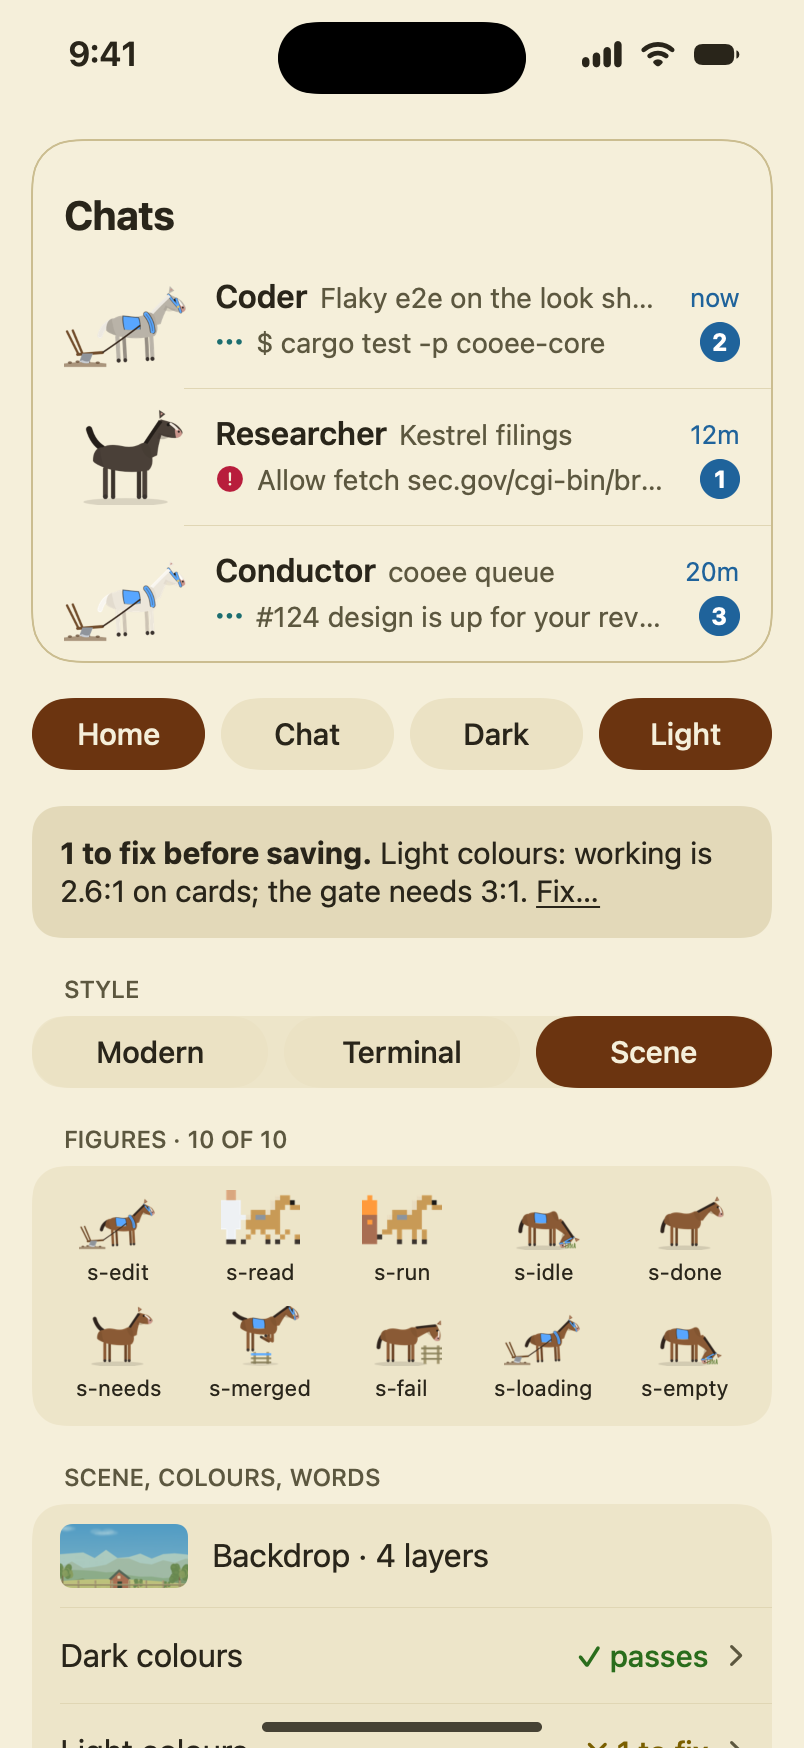
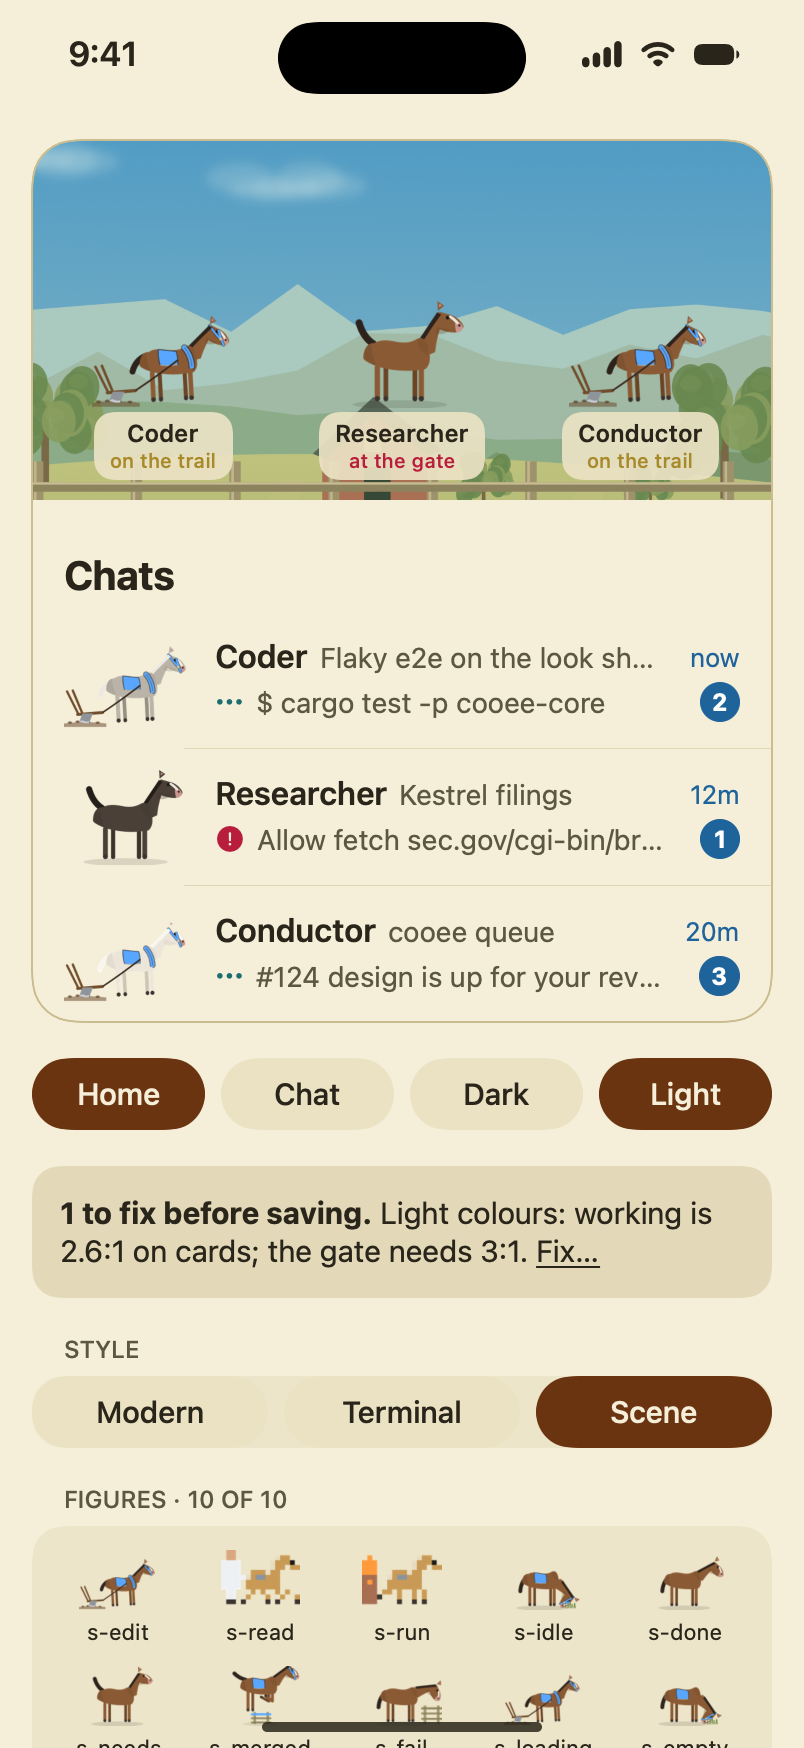
theme editor (#307): the Scene preview draws the backdrop with the figures on it for a copied Farm

diff --git a/apple/Sources/CooeeUI/ThemeEditor.swift b/apple/Sources/CooeeUI/ThemeEditor.swift
@@ -170,11 +170,10 @@ internal struct ThemePreview: View {
                 }
                 .padding(16).environment(\.asker, Fixtures.persona("res"))
             } else {
+                let chats = Array(Fixtures.chats.filter { $0.asker == nil }.prefix(3))
                 VStack(spacing: 0) {
-                    if shown.style == .scene, shown.art != nil {
-                        Sprite(name: "scene-strip", pack: "scene.svg").scaledToFill().frame(height: 120).clipped()
-                    }
-                    ChatList(chats: Array(Fixtures.chats.filter { $0.asker == nil }.prefix(3))).padding(.top, 14)
+                    if shown.style == .scene { scene(chats, shown) }
+                    ChatList(chats: chats).padding(.top, 14)
                 }
             }
         }
@@ -184,5 +183,29 @@ internal struct ThemePreview: View {
         .overlay { RoundedRectangle(cornerRadius: shown.mono ? 0 : 22).stroke(shown.palette.edge) }
         .environment(\.look, shown).environment(\.colorScheme, dark ? .dark : .light)
         .allowsHitTesting(false).accessibilityElement(children: .ignore).accessibilityLabel("Preview")
+    }
+
+    private func scene(_ chats: [ListedChat], _ shown: Look) -> some View {
+        ZStack(alignment: .bottom) {
+            Sprite(name: "scene-strip", pack: "scene.svg").scaledToFill().frame(height: 180).clipped()
+            HStack(alignment: .bottom) {
+                ForEach(chats) { chat in
+                    let pose = chat.row.state.pose
+                    VStack(spacing: 2) {
+                        Sprite(name: "horse-bay-\(pose)", pack: "sprites.svg#s-\(pose)").frame(width: 72, height: 54)
+                        VStack(spacing: 0) {
+                            Text(chat.persona.name).ui(12, .semibold, shown)
+                            Text(chat.row.state.word).ui(10, .medium, shown)
+                                .foregroundStyle(shown.palette.state(chat.row.state))
+                        }
+                        .lineLimit(1).padding(.horizontal, 8).padding(.vertical, 3)
+                        .background(shown.palette.card.opacity(0.92), in: .rect(cornerRadius: 10))
+                    }
+                    .frame(maxWidth: .infinity)
+                }
+            }
+            .padding(10)
+        }
+        .frame(height: 180)
     }
 }
